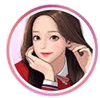
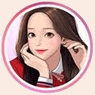
mejora de imagen

diff --git a/index.html b/index.html
@@ -5,6 +5,7 @@
     <meta http-equiv="X-UA-Compatible" content="IE=edge">
     <meta name="viewport" content="width=device-width, initial-scale=1.0">
     <link rel="stylesheet" href="estilos.css">
+    <link href="https://fonts.googleapis.com/css2?family=Otomanopee+One&display=swap" rel="stylesheet">
     <title>True Beauty</title>
 </head>
 <body>
@@ -15,7 +16,10 @@
                 <img src="imagenes/tvn_logo.png" alt="imagen" class="cont-uno__img-dos">
             </span>
             <div class="cont-dos">
-                <img src="imagenes/prota.png" alt="imagen">
+                <div>
+                    <img src="imagenes/prota.png" alt="imagen">
+                    <p>barbie_joo**</p>
+                </div>
                 <div class="cont-tres">
                     <span class="cont-tres__span"> 
                         <p class="cont-tres__p">99 <br> siguiendo</p>

diff --git a/estilos.css b/estilos.css
@@ -5,21 +5,24 @@
 }
 
 body {
-    background-color: rgb(251, 247, 244);
+    
     width: 100%;
     height: 100vh;
 }
 
 .header {
     width: 50%;
-    height: 30%;
+    height: 35%;
     margin: 0 auto;
     border: solid 2px;
+    background-color: rgb(250, 236, 226);
 }
 
+p {
+    font-family: 'Otomanopee One', sans-serif;
+}
 .cont-uno {
-    display: flex;
-    
+    display: flex;  
 }
 
 .cont-uno__img {
